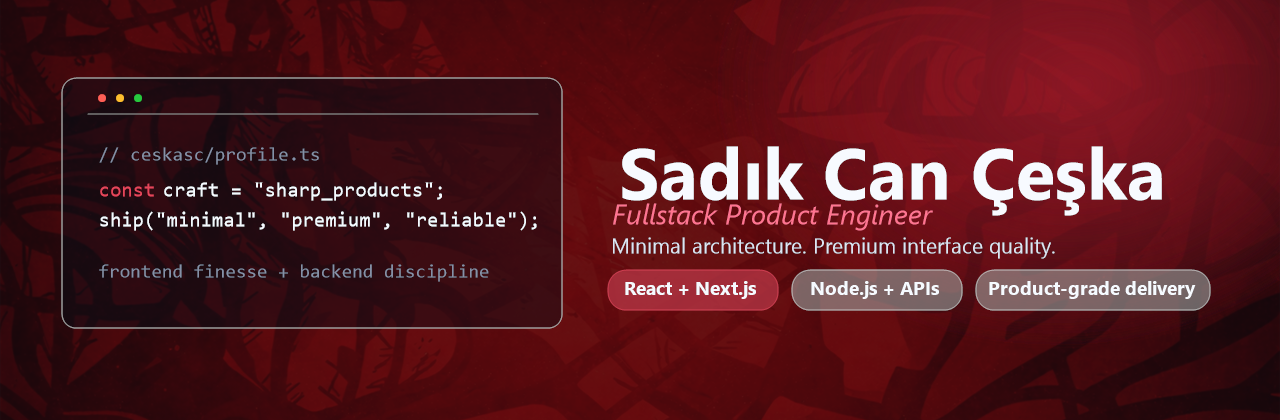
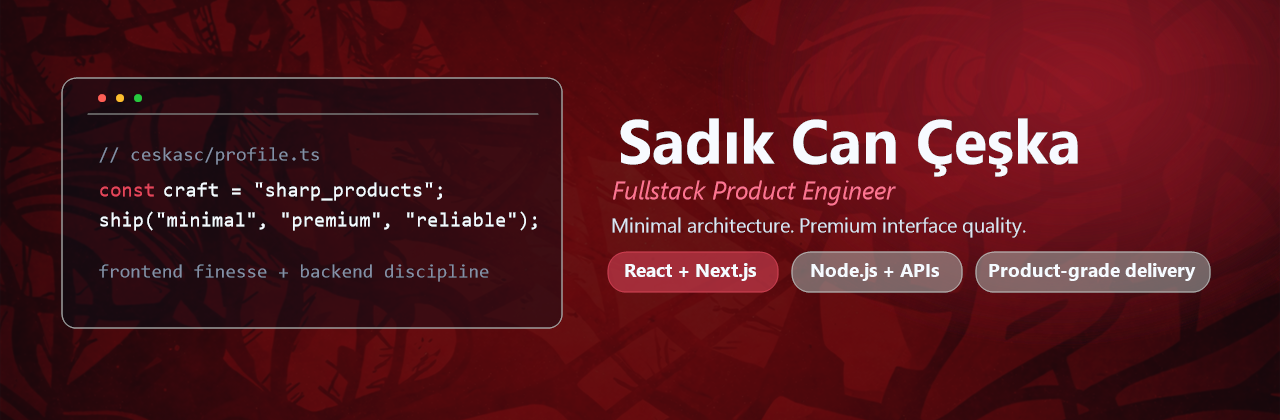
refine: align hero heading and increase text spacing

Changed region(s): [[0.4688, 0.2786, 0.9688, 0.7429]]

diff --git a/README.md b/README.md
@@ -1,5 +1,5 @@
 <div align="center">
-  <img src="./assets/profile-hero-red.png?v=20260220g" alt="Sadık Can Çeşka hero header" width="100%" />
+  <img src="./assets/profile-hero-red.png?v=20260220h" alt="Sadık Can Çeşka hero header" width="100%" />
 
   <h1>Sadık Can Çeşka</h1>
   <p><strong>Fullstack Product Engineer</strong> building product-grade web systems with clean architecture and sharp interface quality.</p>
